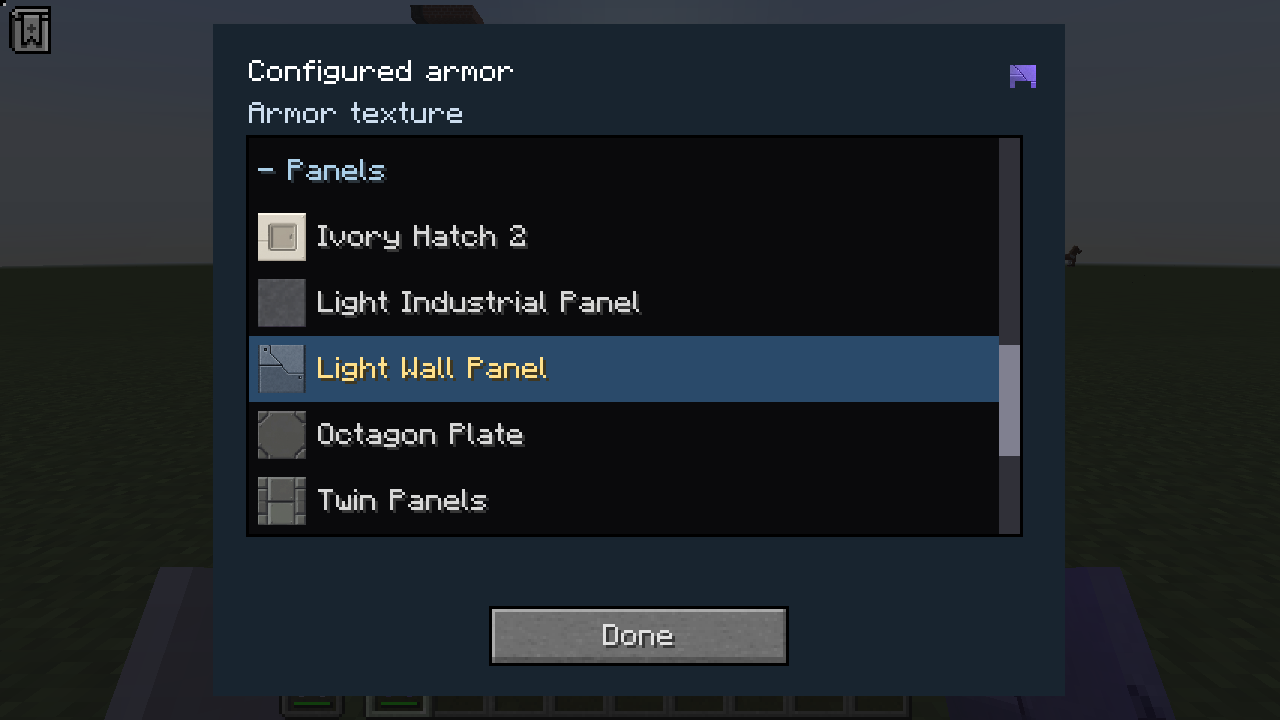
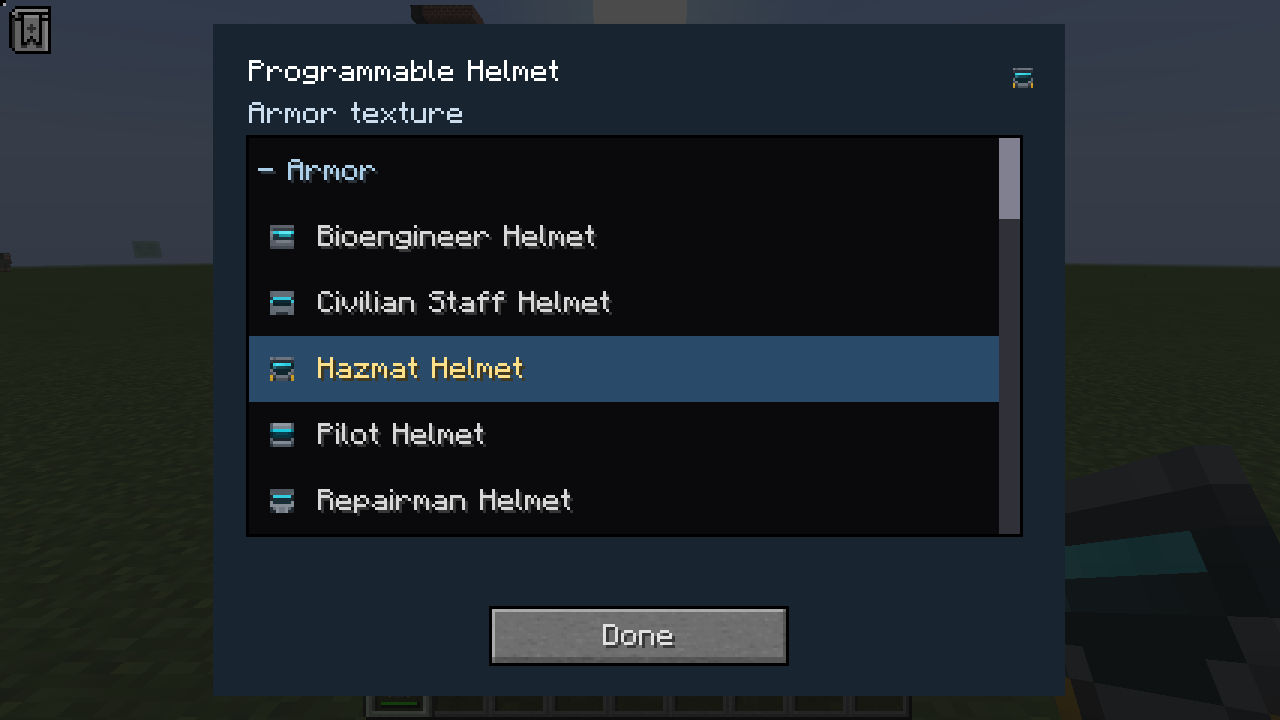
Validate every role armor design and document configuration

diff --git a/src/main/java/com/vandorlabs/client/RoleArmorRuntimeChecks.java b/src/main/java/com/vandorlabs/client/RoleArmorRuntimeChecks.java
@@ -1,0 +1,192 @@
+package com.vandorlabs.client;
+
+import com.vandorlabs.items.*;
+import com.vandorlabs.network.*;
+import com.vandorlabs.tiles.ScreenHousingTextures;
+import net.minecraft.client.Minecraft;
+import net.minecraft.client.gui.GuiScreen;
+import net.minecraft.client.gui.inventory.GuiInventory;
+import net.minecraft.client.renderer.RenderHelper;
+import net.minecraft.client.renderer.block.model.*;
+import net.minecraft.entity.player.EntityPlayerMP;
+import net.minecraft.item.ItemStack;
+import net.minecraft.nbt.NBTTagCompound;
+import net.minecraft.util.*;
+import net.minecraft.network.play.client.CPacketEntityAction;
+import net.minecraft.world.GameType;
+import java.io.File;
+import java.util.*;
+import java.util.concurrent.Future;
+import javax.imageio.ImageIO;
+
+/** Exercise every native design through actual picker packets, slot guards and worn rendering. */
+final class RoleArmorRuntimeChecks {
+    private static final ItemProgrammableArmor[] ITEMS={ModItems.PROGRAMMABLE_HELMET,ModItems.PROGRAMMABLE_CHESTPLATE,
+            ModItems.PROGRAMMABLE_LEGGINGS,ModItems.PROGRAMMABLE_BOOTS};
+    private static int stage,piece,design,preview,ticks,icons;
+    private static Future<?> pending;
+    private static List<ArmorTextures.Entry> choices;
+    private static EntityPlayerMP owner(Minecraft mc) {return mc.getIntegratedServer().getPlayerList().getPlayerByUUID(mc.player.getUniqueID());}
+    private static List<ArmorTextures.Entry> choices(ItemProgrammableArmor item) {
+        List<ArmorTextures.Entry> result=new ArrayList<>();
+        for(ArmorTextures.Entry entry:ArmorTextures.ALL)if(entry.slot==item.armorType)result.add(entry);
+        return result;
+    }
+    static void tick(Minecraft mc,File output) {
+        try {
+            if(pending!=null) {if(!pending.isDone())return;pending.get();pending=null;}
+            if(stage==0) {
+                choices=choices(ITEMS[piece]);design=0;
+                require(choices.size()==7,"seven role choices per piece");
+                pending=mc.getIntegratedServer().addScheduledTask(()->{
+                    EntityPlayerMP player=owner(mc);player.setGameType(GameType.CREATIVE);
+                    player.inventory.currentItem=0;
+                    ItemStack stack=new ItemStack(ITEMS[piece]);stack.setItemDamage(23);
+                    NBTTagCompound tag=new NBTTagCompound();tag.setString("RoleTest","preserve");stack.setTagCompound(tag);
+                    player.setHeldItem(EnumHand.MAIN_HAND,stack);
+                    player.setItemStackToSlot(ITEMS[piece].armorType,ItemStack.EMPTY);
+                    player.sendContainerToPlayer(player.inventoryContainer);
+                });stage=1;ticks=0;return;
+            }
+            if(++ticks<20)return;
+            if(stage==1) {
+                require(mc.player.getItemStackFromSlot(ITEMS[piece].armorType).isEmpty(),"empty equipment slot fixture synchronized");
+                mc.player.movementInput.sneak=true;
+                mc.player.connection.sendPacket(new CPacketEntityAction(mc.player,CPacketEntityAction.Action.START_SNEAKING));
+                require(mc.playerController.processRightClick(mc.player,mc.world,EnumHand.MAIN_HAND)==EnumActionResult.SUCCESS,"role picker open action");
+                stage=2;ticks=0;return;
+            }
+            if(stage==2) {
+                require(mc.currentScreen instanceof GuiProgrammableArmor,"role picker opened by server");
+                checkFilter((GuiProgrammableArmor)mc.currentScreen,mc.player.getHeldItemMainhand());
+                ArmorTextures.Entry wrong=null;
+                for(ArmorTextures.Entry entry:ArmorTextures.ALL)if(entry.slot!=ITEMS[piece].armorType) {wrong=entry;break;}
+                require(wrong!=null,"wrong-slot test choice exists");
+                PacketHandler.INSTANCE.sendToServer(new MessageProgrammableArmor(mc.player.openContainer.windowId,wrong.choice));
+                stage=3;ticks=0;return;
+            }
+            if(stage==3) {
+                require(ItemProgrammableArmor.texture(mc.player.getHeldItemMainhand())==0,"server rejects real wrong-slot packet");
+                ((GuiProgrammableArmor)mc.currentScreen).select(choices.get(design).choice);
+                stage=4;ticks=0;return;
+            }
+            if(stage==4) {
+                ArmorTextures.Entry entry=choices.get(design);
+                ItemStack stack=mc.player.getHeldItemMainhand();
+                require(ItemProgrammableArmor.texture(stack)==entry.choice,"native choice packet synchronized");
+                require(ITEMS[piece].getArmorTexture(stack,mc.player,ITEMS[piece].armorType,null).equals(entry.worn),"exact corresponding worn atlas");
+                try(java.io.InputStream stream=mc.getResourceManager().getResource(new ResourceLocation(entry.worn)).getInputStream()) {
+                    java.awt.image.BufferedImage image=ImageIO.read(stream);
+                    require(image!=null && image.getWidth()==64 && image.getHeight()==32,"native atlas decoded");
+                }
+                checkIcon(mc,stack,entry);
+                pending=mc.getIntegratedServer().addScheduledTask(()->{
+                    ItemStack saved=owner(mc).getHeldItemMainhand();
+                    require(ItemProgrammableArmor.texture(saved)==entry.choice && saved.getItemDamage()==23
+                            && "preserve".equals(saved.getTagCompound().getString("RoleTest")),"native edit preserves unrelated NBT");
+                    ItemStack restored=new ItemStack(saved.writeToNBT(new NBTTagCompound()));
+                    require(ItemStack.areItemStacksEqual(saved,restored),"native selection saves and reloads");
+                });
+                if(design==2)shot(mc,output,"armor_role_picker_"+ITEMS[piece].armorType.getName());
+                if(++design<choices.size()) {
+                    ((GuiProgrammableArmor)mc.currentScreen).select(choices.get(design).choice);ticks=0;return;
+                }
+                mc.player.closeScreen();mc.player.movementInput.sneak=false;
+                mc.player.connection.sendPacket(new CPacketEntityAction(mc.player,CPacketEntityAction.Action.STOP_SNEAKING));
+                stage=5;ticks=0;return;
+            }
+            if(stage==5) {
+                require(mc.playerController.processRightClick(mc.player,mc.world,EnumHand.MAIN_HAND)==EnumActionResult.SUCCESS,"role armor equips normally");
+                stage=6;ticks=0;return;
+            }
+            if(stage==6) {
+                ItemStack equipped=mc.player.getItemStackFromSlot(ITEMS[piece].armorType);
+                require(equipped.getItem()==ITEMS[piece] && ItemProgrammableArmor.texture(equipped)==choices.get(choices.size()-1).choice,"role equipment sync");
+                if(++piece<ITEMS.length) {stage=0;ticks=0;return;}
+                require(icons==28,"every native inventory variant checked");
+                stage=7;ticks=0;return;
+            }
+            if(stage==7) {
+                pending=mc.getIntegratedServer().addScheduledTask(()->{
+                    EntityPlayerMP player=owner(mc);
+                    player.setHeldItem(EnumHand.MAIN_HAND,ItemStack.EMPTY);player.setHeldItem(EnumHand.OFF_HAND,ItemStack.EMPTY);
+                    for(ItemProgrammableArmor item:ITEMS) {
+                        ItemStack stack=new ItemStack(item);ItemProgrammableArmor.setTexture(stack,choices(item).get(preview).choice);
+                        player.setItemStackToSlot(item.armorType,stack);
+                    }
+                    player.sendContainerToPlayer(player.inventoryContainer);
+                });
+                mc.displayGuiScreen(new Preview());stage=8;ticks=0;return;
+            }
+            if(stage==8) {
+                for(ItemProgrammableArmor item:ITEMS)require(ItemProgrammableArmor.texture(mc.player.getItemStackFromSlot(item.armorType))==choices(item).get(preview).choice,"complete role preview synchronized");
+                shot(mc,output,"armor_role_set_"+choices(ITEMS[0]).get(preview).name.replace("_helmet",""));
+                if(++preview<7) {stage=7;ticks=0;return;}
+                System.out.println("[vandorlabs][reprolab] role-armor PASS choices=28 icons=28 sets=7 (slot-filtered menus, wrong-slot packets rejected, native atlas mapping, NBT persistence, equip and padded icons)");
+                stage=9;mc.shutdown();
+            }
+        } catch(Exception e) {throw new IllegalStateException("Role armor check piece="+piece+" design="+design+" stage="+stage,e);}
+    }
+    @SuppressWarnings("unchecked") private static Map<Integer,HousingTextureList.Option> options(HousingTextureList list) throws Exception {
+        java.lang.reflect.Field field=HousingTextureList.class.getDeclaredField("options");field.setAccessible(true);
+        return (Map<Integer,HousingTextureList.Option>)field.get(list);
+    }
+    private static void checkFilter(GuiProgrammableArmor gui,ItemStack stack) throws Exception {
+        java.lang.reflect.Field field=GuiProgrammableArmor.class.getDeclaredField("textures");field.setAccessible(true);
+        Map<Integer,HousingTextureList.Option> entries=options((HousingTextureList)field.get(gui));
+        int nativeCount=0;
+        for(HousingTextureList.Option option:entries.values()) {
+            require(ItemProgrammableArmor.validTexture(stack,option.choice),"every listed choice valid for piece");
+            if("Armor".equals(option.category)) {
+                require(ArmorTextures.fits(option.choice,ITEMS[piece].armorType),"Armor menu contains only correct slot");nativeCount++;
+            }
+        }
+        require(nativeCount==7 && entries.size()>nativeCount,"seven native designs plus existing block materials");
+        Map<Integer,HousingTextureList.Option> blocks=options(new HousingTextureList(0,0,250,0));
+        for(HousingTextureList.Option option:blocks.values())require(!"Armor".equals(option.category) && ArmorTextures.entry(option.choice)==null,"Armor category absent from block picker");
+        for(ArmorTextures.Entry entry:ArmorTextures.ALL) {
+            require(entries.containsKey(entry.choice)==(entry.slot==ITEMS[piece].armorType),"matching designs included, other pieces excluded");
+            require(!ScreenHousingTextures.validChoice(entry.choice),"armor choice cannot be accepted as block material");
+        }
+    }
+    private static void checkIcon(Minecraft mc,ItemStack stack,ArmorTextures.Entry entry) {
+        IBakedModel model=mc.getRenderItem().getItemModelWithOverrides(stack,mc.world,mc.player);
+        org.apache.commons.lang3.tuple.Pair<? extends IBakedModel,javax.vecmath.Matrix4f> gui=
+                model.handlePerspective(ItemCameraTransforms.TransformType.GUI);
+        List<BakedQuad> quads=gui.getLeft().getQuads(null,null,0);require(!quads.isEmpty(),"native icon has geometry");
+        for(BakedQuad quad:quads) {
+            require(quad.getSprite().getIconName().equals(entry.icon),"exact corresponding native icon");
+            int[] data=quad.getVertexData();int stride=data.length/4;
+            for(int v=0;v<4;v++) {
+                javax.vecmath.Point3f point=new javax.vecmath.Point3f(
+                        Float.intBitsToFloat(data[v*stride])-.5F,
+                        Float.intBitsToFloat(data[v*stride+1])-.5F,
+                        Float.intBitsToFloat(data[v*stride+2])-.5F);
+                if(gui.getRight()!=null)gui.getRight().transform(point);
+                require(point.x+.5F>=1F/16F && point.x+.5F<=15F/16F
+                        && point.y+.5F>=1F/16F && point.y+.5F<=15F/16F,"native icon padding after actual GUI transform");
+            }
+        }
+        icons++;
+    }
+    private static void shot(Minecraft mc,File output,String name) throws java.io.IOException {
+        ImageIO.write(ScreenShotHelper.createScreenshot(mc.displayWidth,mc.displayHeight,mc.getFramebuffer()),"png",new File(output,"shot_"+name+".png"));
+    }
+    private static final class Preview extends GuiScreen {
+        @Override public boolean doesGuiPauseGame() {return false;}
+        @Override public void drawScreen(int x,int y,float partial) {
+            drawRect(0,0,width,height,0xFF253441);
+            String name=choices(ITEMS[0]).get(Math.min(preview,6)).label.replace(" Helmet","");
+            drawCenteredString(fontRenderer,name,width/2,16,0xFFFFFF);
+            GuiInventory.drawEntityOnScreen(width/2,height-55,65,0,0,mc.player);
+            RenderHelper.enableGUIStandardItemLighting();
+            for(int i=0;i<ITEMS.length;i++) {
+                int xx=width/2-44+i*24,yy=height-35;
+                drawRect(xx-1,yy-1,xx+17,yy+17,0xFF58697A);
+                itemRender.renderItemAndEffectIntoGUI(mc.player.getItemStackFromSlot(ITEMS[i].armorType),xx,yy);
+            }
+            RenderHelper.disableStandardItemLighting();
+        }
+    }
+    private static void require(boolean condition,String message) {if(!condition)throw new IllegalStateException(message);}
+}

diff --git a/tools/test_compact_assets.py b/tools/test_compact_assets.py
@@ -48,7 +48,12 @@ with ZipFile(jar) as archive:
         if name.startswith(prefix+'blockstates/') and name.endswith('.json'):references(json.loads(archive.read(name)),name)
         if name.endswith('.png'):
             image=Image.open(io.BytesIO(archive.read(name)))
-            if '/textures/items/' in name:assert image.size==(128,128),name
+            if '/textures/items/armor/' in name:
+                assert image.size==(16,16),name
+                x0,y0,x1,y1=image.convert('RGBA').getbbox()
+                assert x0>0 and y0>0 and x1<16 and y1<16,name
+            elif '/textures/items/' in name:assert image.size==(128,128),name
+            elif '/textures/models/armor/roles/' in name:assert image.size==(64,32),name
             if '/imported/trapdoors/' in name:assert image.size==((128,128) if name.endswith('_small.png') else (256,256)),name
         assert not any(path in name for path in ['/textures/blocks/space_doors/high/','/textures/blocks/cargo_doors/high/','/models/block/detailed_doors/high/','/models/item/detailed_doors/high/'])
     pane=lambda tier:Image.open(io.BytesIO(archive.read(prefix+'textures/blocks/space_doors/'+tier+'/glass_tile.png'))).convert('RGBA')

diff --git a/src/main/java/com/vandorlabs/client/ProgrammableArmorRuntimeChecks.java b/src/main/java/com/vandorlabs/client/ProgrammableArmorRuntimeChecks.java
@@ -32,6 +32,7 @@ final class ProgrammableArmorRuntimeChecks {
     static void tick(Minecraft mc,File output) {
         try {
             if(pending!=null) { if(!pending.isDone())return;pending.get();pending=null; }
+            if(stage==12) {RoleArmorRuntimeChecks.tick(mc,output);return;}
             if(stage==0) {
                 pending=mc.getIntegratedServer().addScheduledTask(()->{
                     EntityPlayerMP player=owner(mc);
@@ -141,7 +142,7 @@ final class ProgrammableArmorRuntimeChecks {
             if(stage==6) {
                 shot(mc,output,"armor_worn_and_icons");
                 System.out.println("[vandorlabs][reprolab] programmable-armor PASS (four real picker/equip packets, survival offhand sync, diamond stats, recipes, permissions, stale stacks, saved NBT and every material icon)");
-                stage=7;mc.shutdown();
+                stage=12;
             }
         } catch(Exception e) {throw new IllegalStateException("Armor live checks piece="+piece+" stage="+stage,e);}
     }

diff --git a/docs/programmable-armor.md b/docs/programmable-armor.md
@@ -2,7 +2,7 @@
 
 Programmable Helmet, Chestplate, Leggings and Boots use vanilla diamond armor protection, toughness, durability and enchantability. Repair with diamonds, including in an anvil. They are available in the Vandor Labs creative tab. Craft each piece with Programmable Matter Ingots in the corresponding vanilla armor pattern (5, 8, 7 or 4 ingots).
 
-Hold a piece and **shift-right-click** to open its categorized texture dialog. Configuration is available in creative mode, or in survival by holding a Configurizer in the main hand and the armor in the off hand. Choose a role design from **Armor**, or any material in the default Programmable Block texture list, then click **Done** or press Escape. Ordinary right-click equips the armor into its matching empty slot.
+Hold a piece, aim into the air and **shift-right-click** to open its categorized texture dialog. Configuration is available in creative mode, or in survival by holding a Configurizer in the main hand and the armor in the off hand. Choose a role design from **Armor**, or any material in the default Programmable Block texture list, then click **Done** or press Escape. Ordinary right-click equips the armor into its matching empty slot.
 
 Each piece remembers its own material when equipped, dropped, moved between inventories or saved. Selecting a material preserves damage, enchantments and names. Armor starts with Dark Wall Panel. The selected artwork covers the armor and the padded inventory silhouette. Block materials retain the vanilla diamond helmet’s face opening and other cutouts. Block artwork uses its first frame and is opaque on armor; this does not add light emission. Resource packs also affect armor materials.
 
@@ -12,4 +12,6 @@ Remove equipped armor and hold it to change its material. Changes apply to that 
 
 ![Programmable armor with independent materials and padded item icons](images/programmable-armor.png)
 
-![The categorized armor texture picker](images/programmable-armor-picker.png)
+![The helmet picker offers matching role designs in its Armor category](images/programmable-armor-picker.png)
+
+![Hazmat role armor with matching padded inventory icons](images/programmable-armor-hazmat.png)
